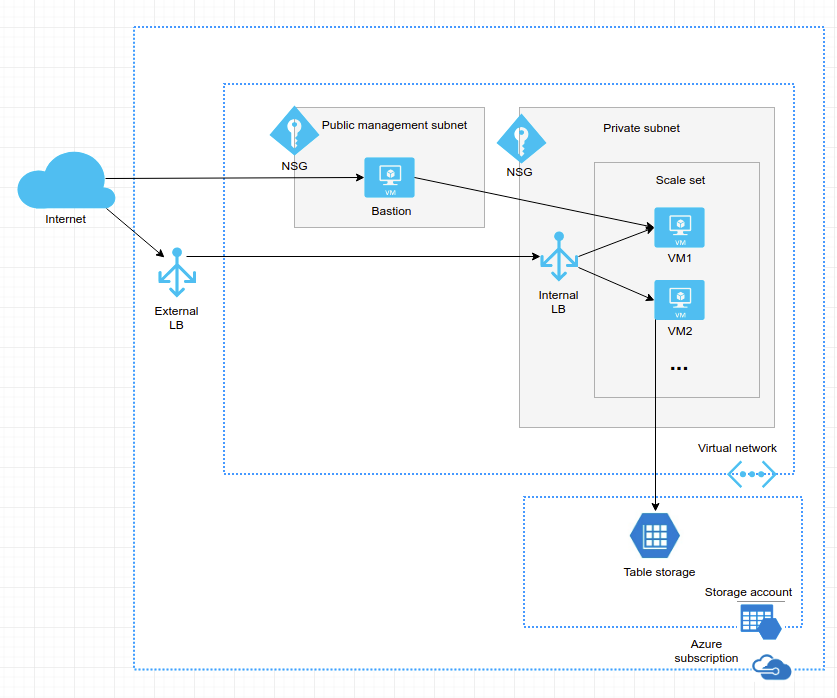
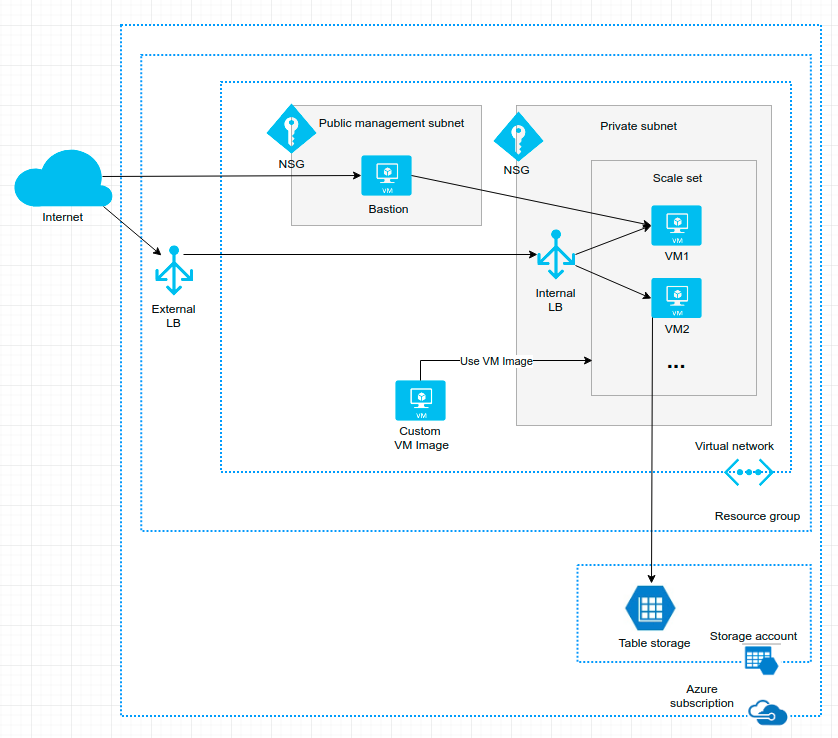
Working Packer version for creating a custom image with app.tar.gz uploaded and untarred in the image

diff --git a/simple-server-vm/README.md b/simple-server-vm/README.md
@@ -101,12 +101,12 @@ The virtual network topology is depicted in the diagram below.
 
 ![Simple Server VM Scaleset Network Topology](diagrams/azure-simple-server-vm-vnet-topology.png?raw=true "Simple Server VM Scaleset Network Topology")
 
-There is an Azure Virtual network which has two subnets. A public management subnet with a bastion host which accepts ssh connections only from certain IP numbers (administrators) and requires a ssh private key for the connection. Only from the bastion host the administrators are able to connect to virtual machines in the private subnet. The private subnet hosts the Azure Scale set which hosts identical Virtual machines in which we have provisioned OpenJDK11 and the Simple Server Clojure Table Storage version. 
+There is an **Azure Virtual network (vnet)** which has two subnets. A **public management subnet** with a bastion host which accepts ssh connections only from certain IP numbers (administrators) and requires a ssh private key for the connection. Only from the bastion host the administrators are able to connect to virtual machines in the private subnet. The **private scaleset subnet** hosts the Azure Scale set which hosts identical Virtual machines in which we have provisioned OpenJDK11 and the Simple Server Clojure Table Storage version. The Azure Scale set uses the **custom VM image** in which I have provisioned OpenJDK10 and the Simple Server (see chapter "Virtual Machine Image").
 
-Clients are able to access the system only using the external load balancer. The external load balancer connects to the internal load balancer which distributes load to the virtual machines in the scale set. 
+Clients are able to access the system only using the **external load balancer**. The external load balancer connects to the **internal load balancer** which distributes load to the virtual machines in the scale set. 
 
 The virtual machines use the Table storage no-sql database tables as data store. The tables are located in an Azure Storage account.
-  
+
 
 ## Scale set
 
@@ -115,6 +115,7 @@ TODO.
 ## Table Storage Tables
 
 TODO.
+
 
 # Virtual Machine Image
 
@@ -128,8 +129,8 @@ For some reason I couldn't upload the Clojure application tar which is pretty bi
 
 Let's see if this procedure works. If not, then I think I just create a VM image by hand (use the VM image created in step #1, manually scp the app.tag.gz there, untar...), manually create a VM image from this instance and use this instance in the rest of this exercise using the VM image in Azure Scale set... so, the idea is not to get stuck in this VM building process but to continue to the Azure VM Scale set infra and let's consider that we figure out later on some clever way to automate the VM image building.
 
-   
-   
+Let's first demonstrate using Packer:
+
 
 ```text
 ./create-vm-image.sh karissvmdemo9tartest karissvmdemo1-dev-main-rg
@@ -158,9 +159,54 @@ ManagedImageLocation: westeurope
 ```
 
 (Changed the subscription id to "1111111111111" in the listing above, of course).
-   
 
-**NOTE**: There is a but in Packer 1.3.3, you have to use Packer 1.3.2, see [Github comment](https://github.com/MicrosoftDocs/azure-docs/issues/21944#issuecomment-452597596).
+Then you can create a Virtual Machine using this image:
 
-See [packer](TODO) directory for the scripts.
+```bash
+az vm create --resource-group karissvmdemo1-dev-main-rg --name start9-test1 --image karissvmdemo9tartest-vm --custom-data testing_init.sh --ssh-key-value @vm_id_rsa.pub --vnet-name karissvmdemo1-dev-vnet --subnet karissvmdemo1-dev-private-scaleset-subnet --admin-username ubuntu --location westeurope
+```
+
+First you have to generate ssh keys, inject the public key to the new VM as above.
+
+Open the ssh port (22) to this machine in the <prefix>-dev-private-scaleset-subnet's network security group (I didn't add this rule to the Terraform infra since my IP number is a bit sensitive information).
+
+You get a result:
+
+```json
+{
+  "fqdns": "",
+  "id": "/subscriptions/11111111111111/resourceGroups/karissvmdemo1-dev-main-rg/providers/Microsoft.Compute/virtualMachines/start10-test1",
+  "location": "westeurope",
+  "macAddress": "11-11-11-11-11-11",
+  "powerState": "VM running",
+  "privateIpAddress": "10.0.1.8",
+  "publicIpAddress": "11.11.11.11",
+  "resourceGroup": "karissvmdemo1-dev-main-rg",
+  "zones": ""
+}
+```
+
+(Changed all sensitive information using ones ("1").)
+
+Logon to the VM:
+```bash
+ssh -i vm_id_rsa ubuntu@11.11.11.11
+~$ java -version
+openjdk version "10.0.2" 2018-07-17
+OpenJDK Runtime Environment (build 10.0.2+13-Ubuntu-1ubuntu0.18.04.4)
+OpenJDK 64-Bit Server VM (build 10.0.2+13-Ubuntu-1ubuntu0.18.04.4, mixed mode)
+```
+
+(Use the real IP, not my dummy "11.11.11.11", of course.)
+Ok, so I managed to create at least a base image which has OpenJDK10, Emacs and Ansible. And if the app.tar.gz application binary is not uploading I can try my second option later (create another image from this base image - use Packer to boot a temporary VM from this base image, fetch the app.tar.gz from Azure Storage blob, provision the software (untar) and then Packer creates the final VM image with provisioned appliction which can be used to create the actual VMs for the Scale set.)
+
+But, yihaa! While writing this I finally managed to upload the actual binary app.tar.gz just using Packer in the base image! And upload was actually amazingly fast. I just had screwed the previous Packer configuration. I'll now push this Packer configuration to my Github.
+
+I started the VM, logged on to the machine, cd /my-app, started the script: './start-server.sh', watched logs flowing everything was nice. I then open the port 3045 for my machine in the private subnet into which I deployed the VM, and curled the app with the public ip of the VM: curl http://11.11.11.11:3045/info (changed again ip to ones): but, nothing happened. I investigated this a bit until I realized that the VM itself also had a network security group (NSG) attached to itself. I opened port 3045 to my machine also in this NSG, curled: yihaa! It worked! Damn, it was beautiful to see all APIs returning the right test data.
+
+
+
+**One final NOTE regarding Packer and Azure VM building**: There is a bug in Packer 1.3.3, you have to use Packer 1.3.2, see [Github comment](https://github.com/MicrosoftDocs/azure-docs/issues/21944#issuecomment-452597596).
+
+See [packer](https://github.com/karimarttila/azure/tree/master/simple-server-vm/packer) directory for the scripts I used for building the VM.
 
